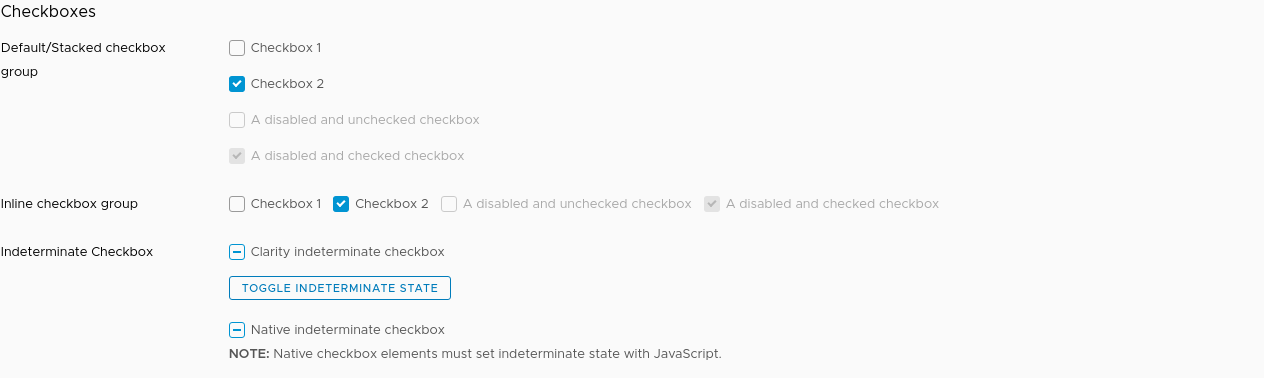
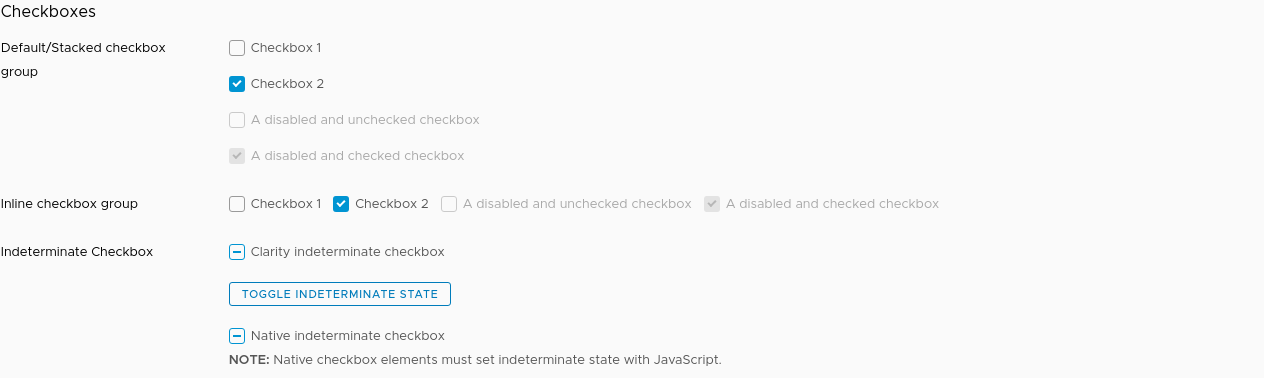
[UI] Add line height to Checkbox and Radio labels

Changed region(s): [[0.1851, 0.8439, 0.5862, 0.9603], [0.1851, 0.7275, 0.3703, 0.8148]]

diff --git a/src/app/checkboxes/checkboxes.demo.html b/src/app/checkboxes/checkboxes.demo.html
@@ -47,7 +47,7 @@
         </div>
         <div class="form-group">
             <label>Indeterminate Checkbox</label>
-            <div class="checkbox-inline">
+            <div>
                 <clr-checkbox type="checkbox" id="checkbox_9" [(clrIndeterminate)]="indeterminateState">
                     Clarity indeterminate checkbox
                 </clr-checkbox>
@@ -141,7 +141,7 @@
                 &lt;/div&gt;
                 &lt;div class="form-group"&gt;
                     &lt;label&gt;Indeterminate Checkbox&lt;/label&gt;
-                    &lt;div class="checkbox-inline"&gt;
+                    &lt;div&gt;
                         &lt;clr-checkbox type="checkbox" id="checkbox_9" [(clrIndeterminate)]="indeterminateState"&gt;
                             Clarity indeterminate checkbox
                         &lt;/clr-checkbox&gt;

diff --git a/src/clarity-angular/forms/utils/_mixins.clarity.scss b/src/clarity-angular/forms/utils/_mixins.clarity.scss
@@ -22,7 +22,7 @@
     width: $height;
 }
 
-@mixin checkbox-radio-label-styles($min-height, $padding-left) {
+@mixin checkbox-radio-label-styles($min-height, $padding-left, $line-height: $clr_baselineRem_1) {
     //Positioning
     position: relative;
 
@@ -31,6 +31,7 @@
     min-height: $min-height;
     padding-left: $padding-left;
     cursor: pointer;
+    line-height: $line-height;
 }
 
 @mixin checkbox-radio-shared-inactive($height, $top, $left, $border-color) {

diff --git a/src/clarity-angular/forms/_checkbox.clarity.scss b/src/clarity-angular/forms/_checkbox.clarity.scss
@@ -3,6 +3,14 @@
 // The full license information can be found in LICENSE in the root directory of this project.
 
 @include exports('checkbox.clarity') {
+    .checkbox {
+        display: block;
+    }
+
+    .checkbox-inline {
+        display: inline-block;
+    }
+
     .checkbox,
     .checkbox-inline {
         position: relative;

diff --git a/src/clarity-angular/buttons/_buttons.clarity.scss b/src/clarity-angular/buttons/_buttons.clarity.scss
@@ -373,7 +373,8 @@ $clr-button-appearance-map: (
             //refer: http://stackoverflow.com/a/32196680/3538394
             display: inline-table;
 
-            padding: 0 12px
+            line-height: inherit;
+            padding: 0 12px;
         }
     }
 

diff --git a/src/clarity-angular/forms/_radio.clarity.scss b/src/clarity-angular/forms/_radio.clarity.scss
@@ -4,6 +4,14 @@
 
 @include exports('radio.clarity') {
 
+    .radio {
+        display: block;
+    }
+
+    .radio-inline {
+        display: inline-block;
+    }
+
     .radio,
     .radio-inline {
         position: relative;

diff --git a/src/clarity-angular/datagrid/_datagrid.clarity.scss b/src/clarity-angular/datagrid/_datagrid.clarity.scss
@@ -305,6 +305,7 @@
                 color: unset;
                 cursor: default;
                 opacity: 1;
+                line-height: inherit;
             }
 
             input[type="checkbox"] + label {
